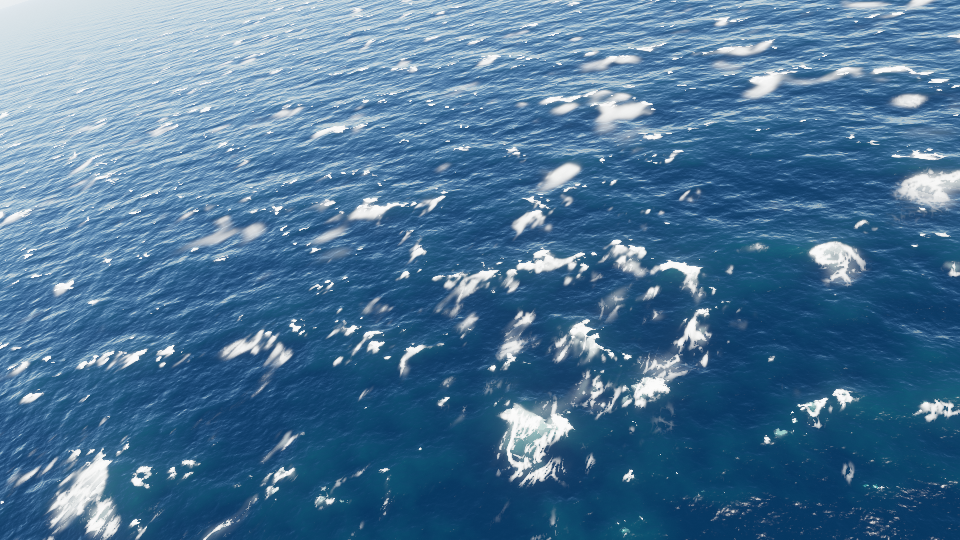
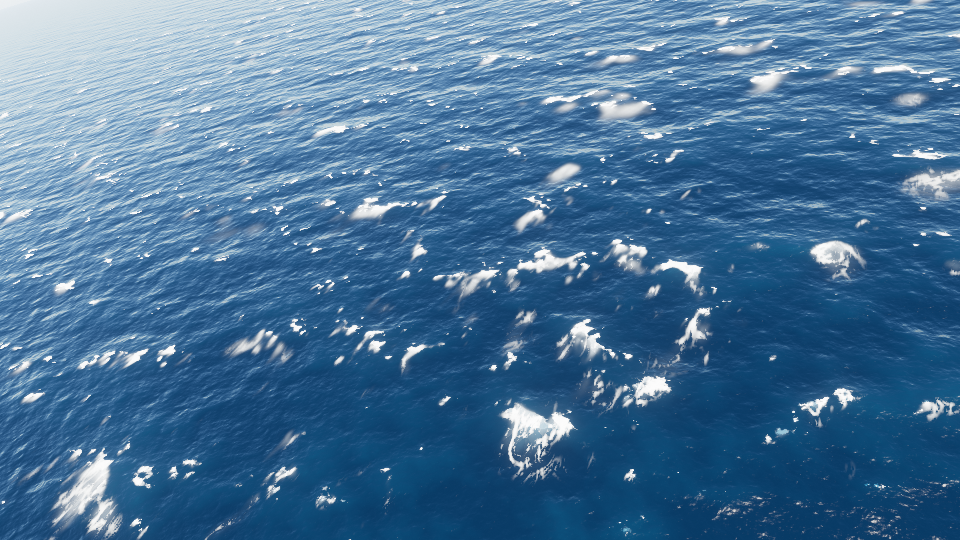
Give the water's subsurface glow a clear-ocean blue
The subsurface-scatter colour was green-dominant (0.06, 0.42, 0.36), which
read as coastal water: teal halos round whitecaps and a teal cast looking
down. Light scattered back out of open-ocean water peaks in the blue, so the
glow is now (0.045, 0.32, 0.56). README example frames re-rendered.

diff --git a/src/ocean/engine/sky.js b/src/ocean/engine/sky.js
@@ -112,7 +112,10 @@ export function createSkyUniforms() {
 		uSunDiscRadiance: { value: new THREE.Vector3() },
 		uSunVisible: { value: 1 },
 		uWaterColor: { value: new THREE.Vector3(0.0011, 0.0068, 0.0165) },
-		uSssColor: { value: new THREE.Vector3(0.06, 0.42, 0.36) },
+		// Light scattered back out of clear open-ocean water peaks in the blue, green well
+		// under it (as uWaterColor); a green-dominant tint reads as coastal, chlorophyll-rich
+		// water, and showed as teal halos round whitecaps and a teal cast looking down.
+		uSssColor: { value: new THREE.Vector3(0.045, 0.32, 0.56) },
 		uFoamTex: { value: /** @type {THREE.Texture | null} */ (null) },
 		uFarVariance: { value: new THREE.Vector3(0.01, 0.01, 0) },
 		uHs: { value: 1 }

diff --git a/src/ocean/engine/surface.js b/src/ocean/engine/surface.js
@@ -325,7 +325,7 @@ void main() {
 
 	gFoamAlbedo = mix(0.5, 1.0, foamDensity);
 	vec3 radiance = shadeWater(vWorld, V, N, sig, crest, foamVis, shadow);
-	// The bubble cloud under and around whitecaps lifts the water toward turquoise.
+	// The bubble cloud under and around whitecaps lifts the water toward a pale aqua blue.
 	float bubbles = smoothstep(0.25, 0.9, coverage) * (1.0 - foamVis);
 	radiance += uSssColor * (uSunE * shadow * max(uSunDir.y, 0.0) + uSkyE) * bubbles * 0.05;
 	vec3 col = applyHaze(radiance, -V, dist, max(vWorld.y, 0.0));
